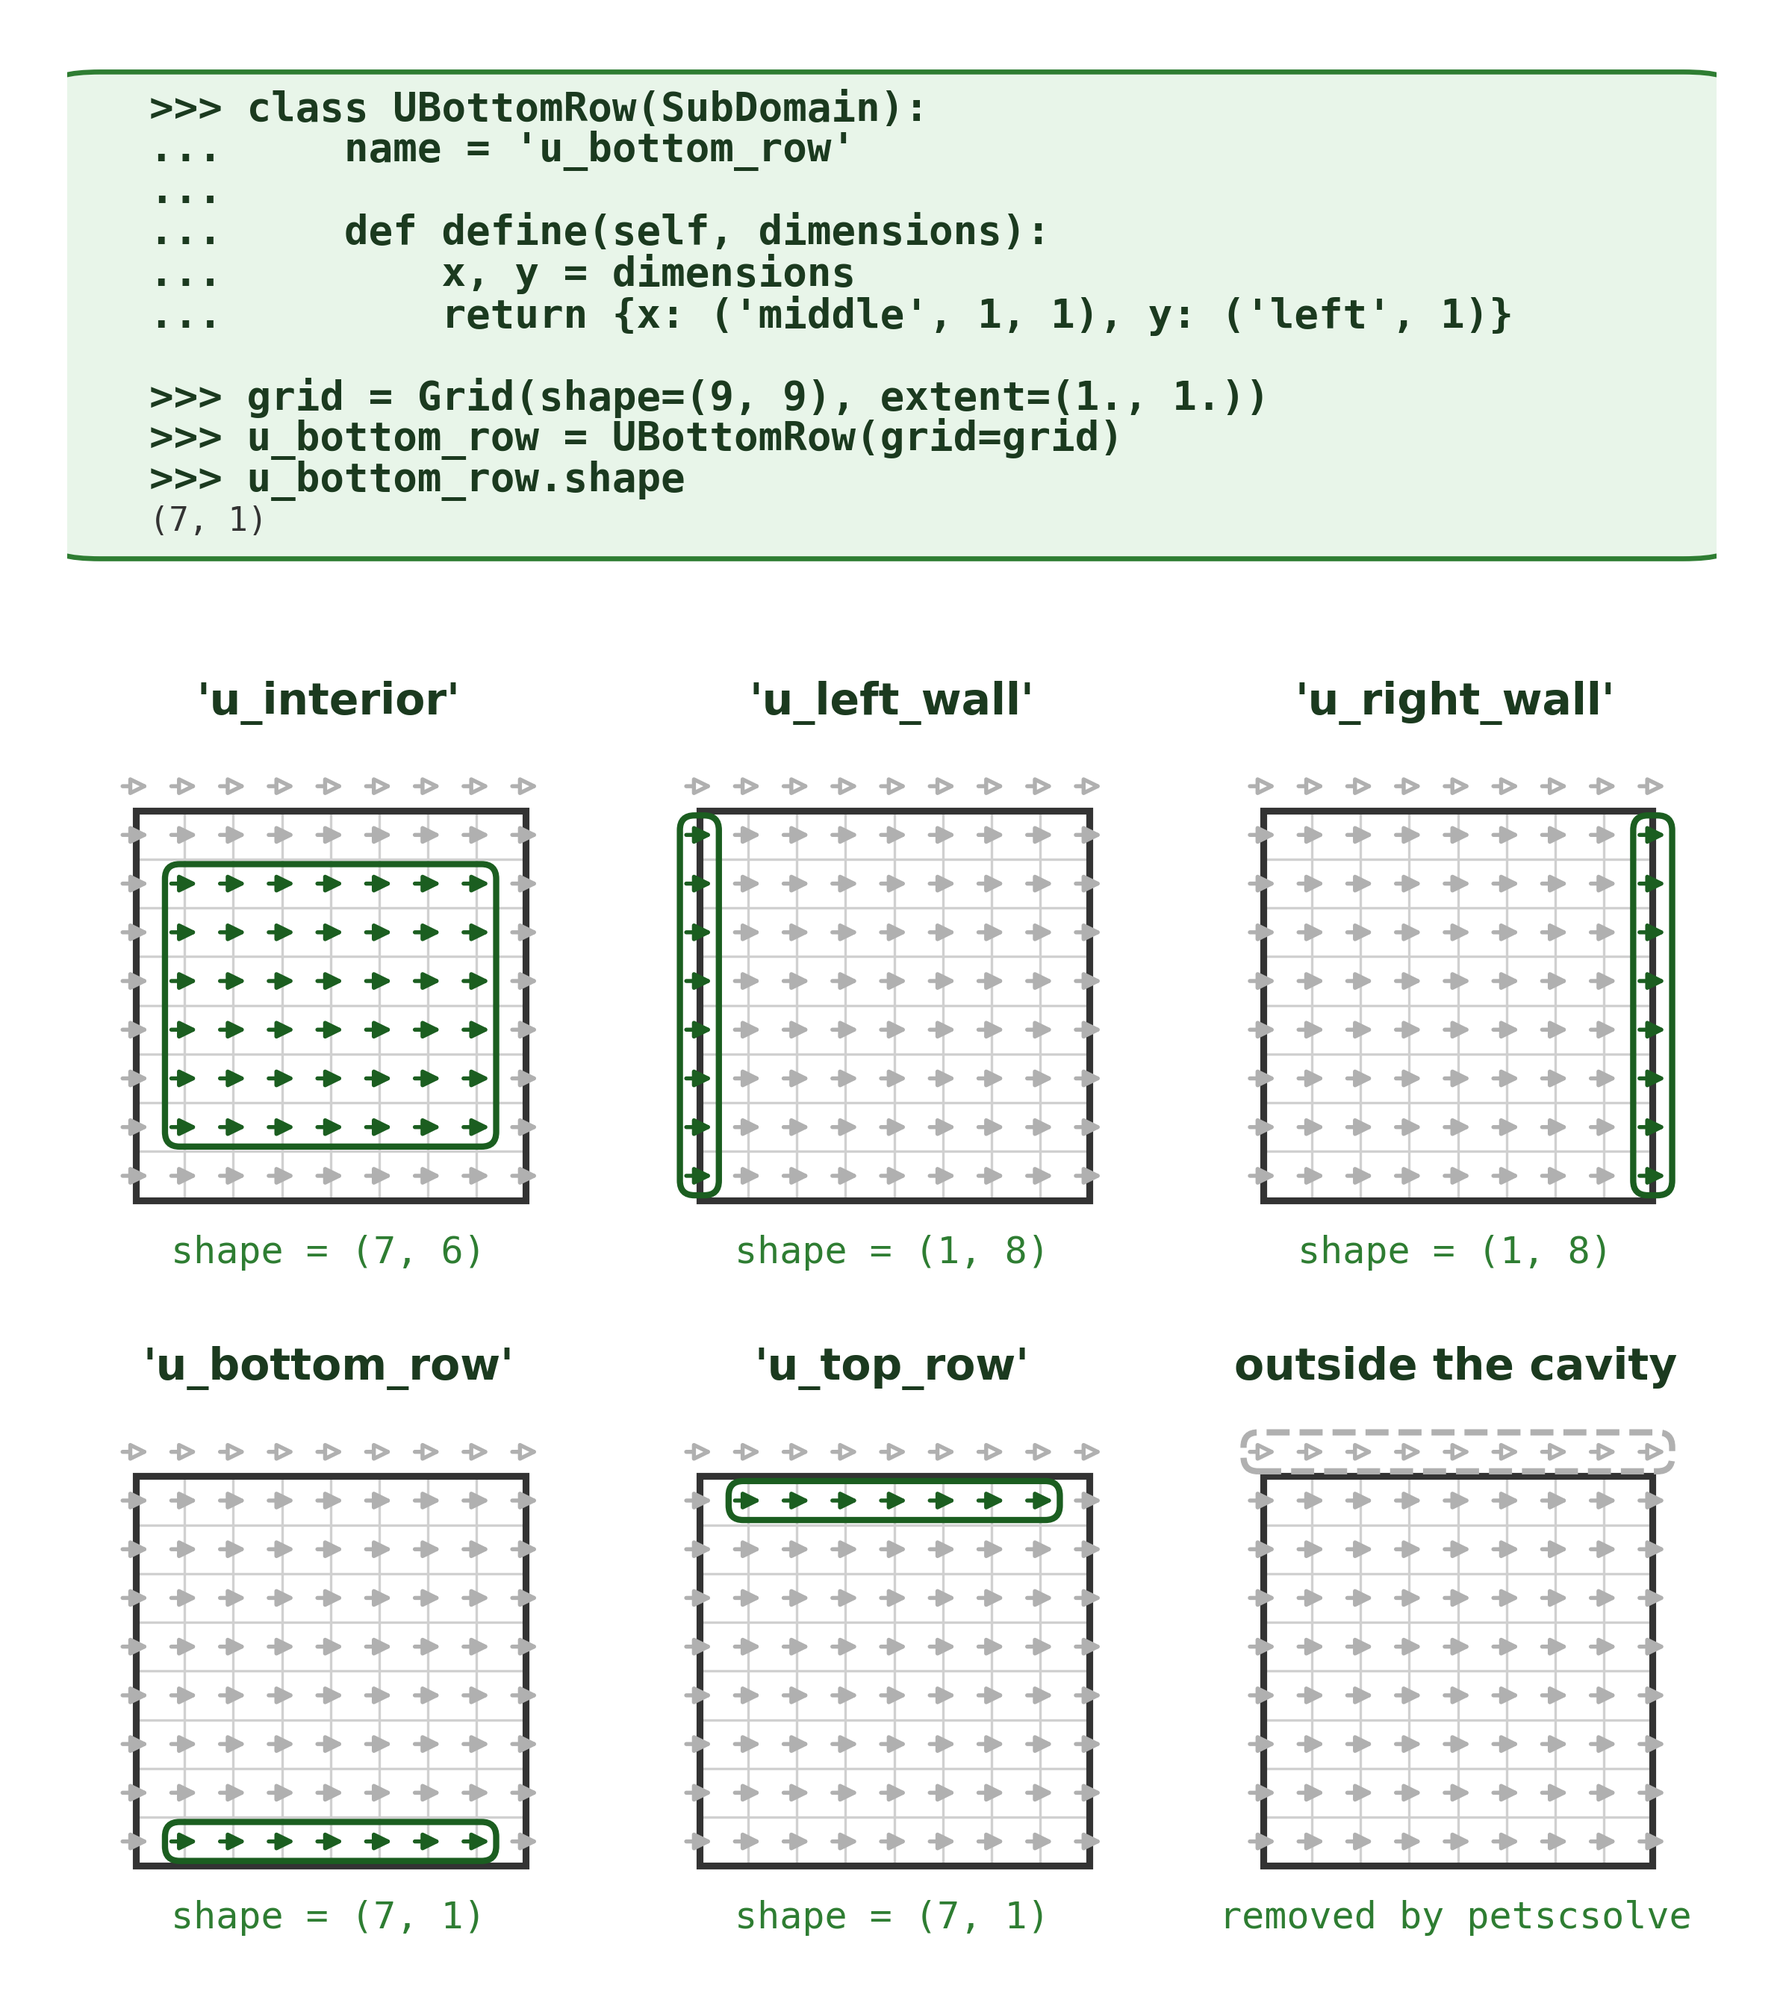
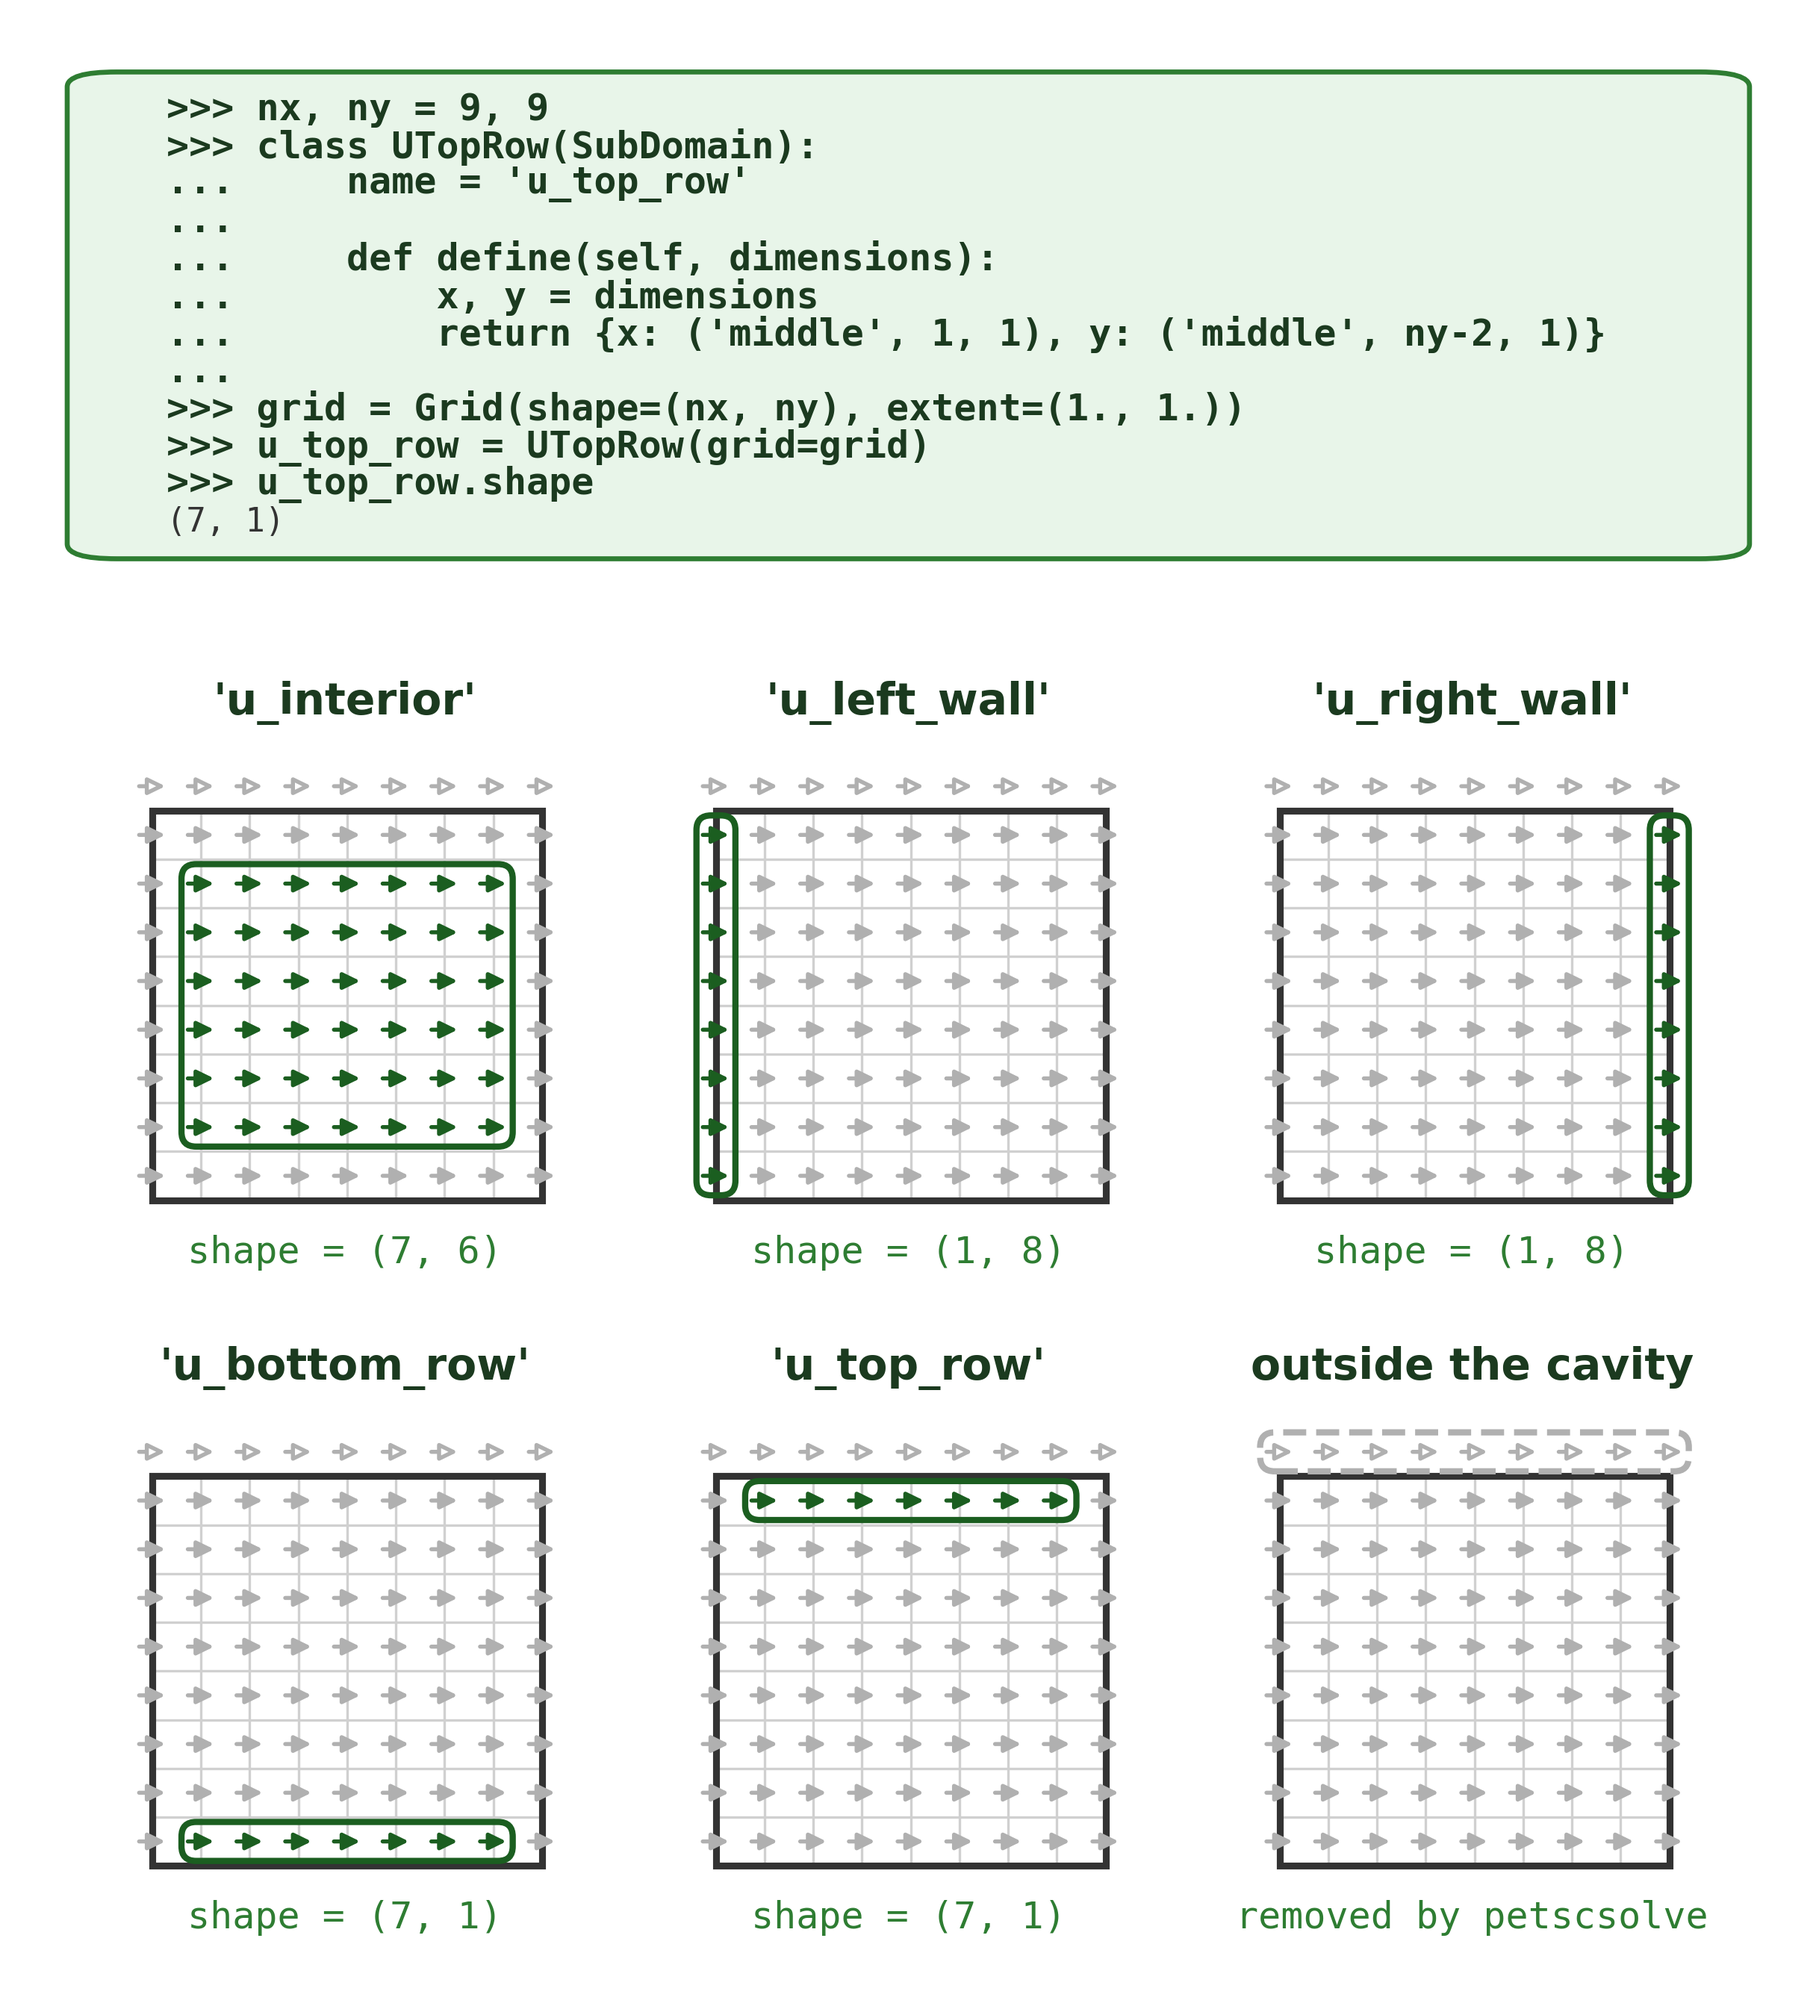
update subdomains figure and drop explicit option in solver

diff --git a/Chapter4/lid_driven_cavity/solver.py b/Chapter4/lid_driven_cavity/solver.py
@@ -90,10 +90,9 @@ def _neumann_right(eq, t, subdomain):
     return Eq(lhs.subs(mapper), rhs.subs(mapper), subdomain=subdomain)
 
 
-def make_solver(nx, ny, ab2=False, implicit_diffusion=False, conservative=True):
+def make_solver(nx, ny, conservative=True):
 
-    # ab2 - Adams-Bashforth 2 for convection, otherwise forward Euler
-    # implicit_diffusion - Crank-Nicolson for diffusion, otherwise forward Euler
+    # Adams-Bashforth 2 for convection, Crank-Nicolson for diffusion
     so = 2
 
     class PhiTopLeft(SubDomain):
@@ -257,7 +256,8 @@ def make_solver(nx, ny, ab2=False, implicit_diffusion=False, conservative=True):
     re = Constant(name='re', dtype=np.float64)
     dt_c = Constant(name='dt_c', dtype=np.float64)
 
-    time_order = 2 if ab2 else 1
+    # AB2 needs u and v at time levels n and n-1
+    time_order = 2
 
     u = TimeFunction(name='u', grid=grid, space_order=so, time_order=time_order, staggered=y)
     v = TimeFunction(name='v', grid=grid, space_order=so, time_order=time_order, staggered=x)
@@ -281,27 +281,16 @@ def make_solver(nx, ny, ab2=False, implicit_diffusion=False, conservative=True):
             return hu, hv
 
         hu, hv = flux(u, v)
-        if ab2:
-            hu_b, hv_b = flux(u.backward, v.backward)
-            conv_u = (3./2.)*hu - (1./2.)*hu_b
-            conv_v = (3./2.)*hv - (1./2.)*hv_b
-        else:
-            conv_u, conv_v = hu, hv
+        hu_b, hv_b = flux(u.backward, v.backward)
+        conv_u = (3./2.)*hu - (1./2.)*hu_b
+        conv_v = (3./2.)*hv - (1./2.)*hv_b
     else:
-        if ab2:
-            conv_u = (3./2.)*(u*u.dxc + v*u.dyc) - (1./2.)*(u.backward*u.backward.dxc + v.backward*u.backward.dyc)
-            conv_v = (3./2.)*(u*v.dxc + v*v.dyc) - (1./2.)*(u.backward*v.backward.dxc + v.backward*v.backward.dyc)
-        else:
-            conv_u = u*u.dxc + v*u.dyc
-            conv_v = u*v.dxc + v*v.dyc
+        conv_u = (3./2.)*(u*u.dxc + v*u.dyc) - (1./2.)*(u.backward*u.backward.dxc + v.backward*u.backward.dyc)
+        conv_v = (3./2.)*(u*v.dxc + v*v.dyc) - (1./2.)*(u.backward*v.backward.dxc + v.backward*v.backward.dyc)
 
-    # Diffusion
-    if implicit_diffusion:
-        diff_u = (1./(2.*re))*(u.dx2 + u.dy2) + (1./(2.*re))*(u.forward.dx2 + u.forward.dy2)
-        diff_v = (1./(2.*re))*(v.dx2 + v.dy2) + (1./(2.*re))*(v.forward.dx2 + v.forward.dy2)
-    else:
-        diff_u = (1./re)*(u.dx2 + u.dy2)
-        diff_v = (1./re)*(v.dx2 + v.dy2)
+    # Diffusion, Crank-Nicolson
+    diff_u = (1./(2.*re))*(u.dx2 + u.dy2) + (1./(2.*re))*(u.forward.dx2 + u.forward.dy2)
+    diff_v = (1./(2.*re))*(v.dx2 + v.dy2) + (1./(2.*re))*(v.forward.dx2 + v.forward.dy2)
 
     eq_u_tent = Eq(u.dt + conv_u, diff_u, subdomain=u_interior)
     eq_v_tent = Eq(v.dt + conv_v, diff_v, subdomain=v_interior)
@@ -431,14 +420,10 @@ def make_solver(nx, ny, ab2=False, implicit_diffusion=False, conservative=True):
         v.data[:] = 0.
         phi.data[:] = 0.
 
+        # Courant number 1/2 at the speed of the lid. Diffusion is implicit, so it
+        # imposes no limit
         dx = 1./(nx - 1)
-        dt_conv = 0.5 * dx
-
-        if implicit_diffusion:
-            dt_val = dt_conv
-        else:
-            dt_diff = (0.5 * re_val * dx**2) / 4.0
-            dt_val = min(dt_conv, dt_diff)
+        dt_val = 0.5 * dx
 
         re.data = np.float64(re_val)
         dt_c.data = np.float64(dt_val)

diff --git a/Chapter4/lid_driven_cavity/figures/subdomains_figure.py b/Chapter4/lid_driven_cavity/figures/subdomains_figure.py
@@ -120,21 +120,22 @@ ax_code.axis("off")
 ax_code.add_patch(FancyBboxPatch(
     (0.01, 0.03), 0.98, 0.94, boxstyle="round,pad=0.02,rounding_size=0.03",
     linewidth=1.6, edgecolor=MID_GREEN, facecolor=FILL_GREEN,
-    transform=ax_code.transAxes, zorder=1))
+    transform=ax_code.transAxes, zorder=1, clip_on=False))
 code_lines = [
-    (">>> class UBottomRow(SubDomain):", TEXT_DARK, "bold", 13),
-    ("...     name = 'u_bottom_row'", TEXT_DARK, "bold", 13),
-    ("...", TEXT_DARK, "bold", 13),
-    ("...     def define(self, dimensions):", TEXT_DARK, "bold", 13),
-    ("...         x, y = dimensions", TEXT_DARK, "bold", 13),
-    ("...         return {x: ('middle', 1, 1), y: ('left', 1)}", TEXT_DARK, "bold", 13),
-    ("", TEXT_DARK, "normal", 13),
-    (f">>> grid = Grid(shape=({N}, {N}), extent=(1., 1.))", TEXT_DARK, "bold", 13),
-    (">>> u_bottom_row = UBottomRow(grid=grid)", TEXT_DARK, "bold", 13),
-    (">>> u_bottom_row.shape", TEXT_DARK, "bold", 13),
-    (str(shapes['u_bottom_row']), "#333333", "normal", 10.5),
+    (f">>> nx, ny = {N}, {N}", TEXT_DARK, "bold", 12),
+    (">>> class UTopRow(SubDomain):", TEXT_DARK, "bold", 12),
+    ("...     name = 'u_top_row'", TEXT_DARK, "bold", 12),
+    ("...", TEXT_DARK, "bold", 12),
+    ("...     def define(self, dimensions):", TEXT_DARK, "bold", 12),
+    ("...         x, y = dimensions", TEXT_DARK, "bold", 12),
+    ("...         return {x: ('middle', 1, 1), y: ('middle', ny-2, 1)}", TEXT_DARK, "bold", 12),
+    ("...", TEXT_DARK, "bold", 12),
+    (">>> grid = Grid(shape=(nx, ny), extent=(1., 1.))", TEXT_DARK, "bold", 12),
+    (">>> u_top_row = UTopRow(grid=grid)", TEXT_DARK, "bold", 12),
+    (">>> u_top_row.shape", TEXT_DARK, "bold", 12),
+    (str(shapes['u_top_row']), "#333333", "normal", 10.5),
 ]
-y0, dy = 0.915, 0.083
+y0, dy = 0.915, 0.0755
 for i, (line, color, weight, fontsize) in enumerate(code_lines):
     ax_code.text(0.05, y0 - i * dy, line, ha="left", va="center", fontsize=fontsize,
                  family="monospace", color=color, fontweight=weight,

diff --git a/Chapter4/lid_driven_cavity/run_cavity.py b/Chapter4/lid_driven_cavity/run_cavity.py
@@ -25,7 +25,7 @@ TOL = 1e-7
 def run(re_val, n):
 
     # Run the solver and return the fields and primary vortex
-    solve = make_solver(nx=n, ny=n, ab2=True, implicit_diffusion=True, conservative=True)
+    solve = make_solver(nx=n, ny=n, conservative=True)
     x, y, u, v, omega, psi, rank, u_stag, v_stag, res = solve(re_val, t_end=T[re_val],
                                                               fixed=True)
     if rank != 0:
